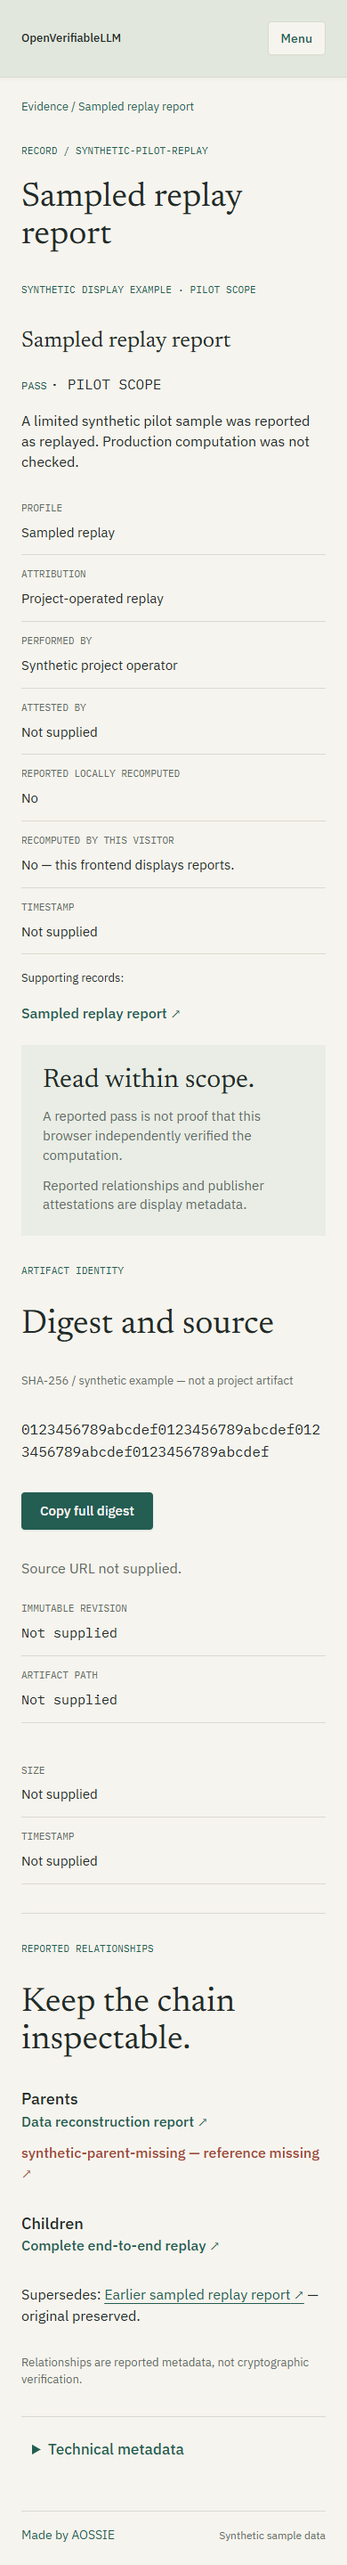
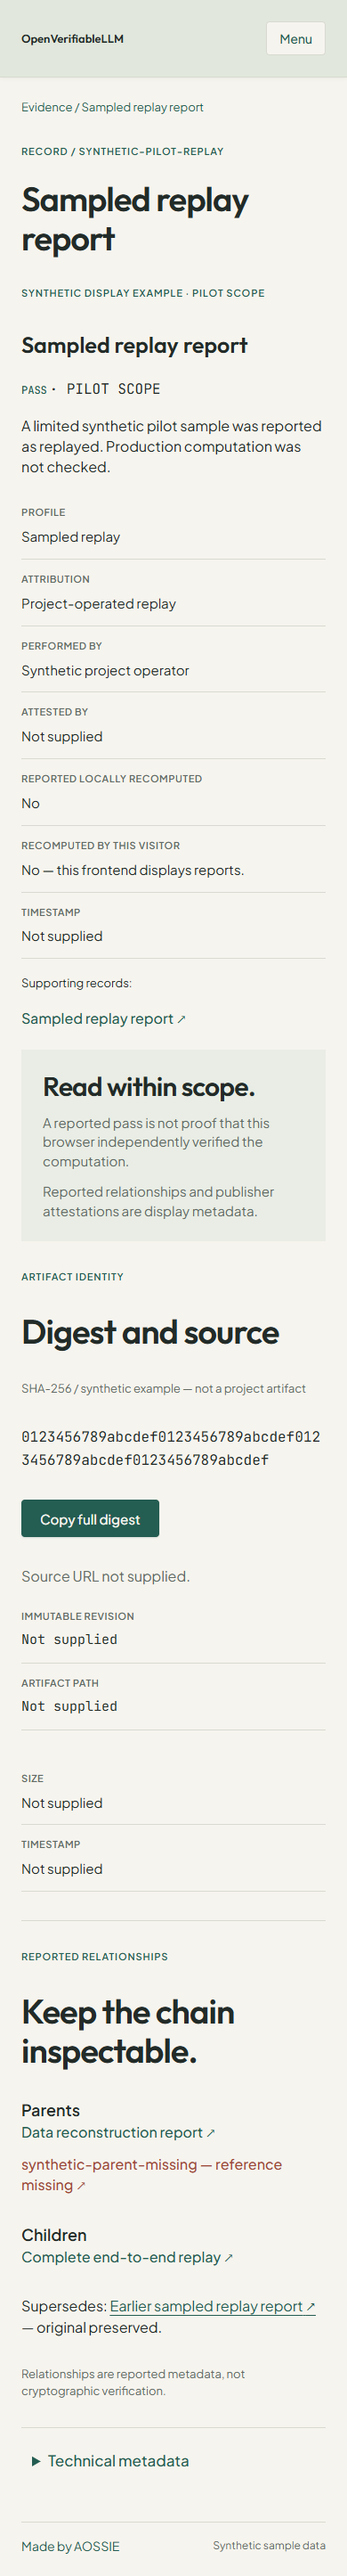
style(frontend): update typography to Plus Jakarta Sans and regenerate PR screenshots

diff --git a/frontend/src/styles.css b/frontend/src/styles.css
@@ -1,11 +1,13 @@
 :root {
   --paper:#f6f4ee; --ink:#222b28; --muted:#626b65; --teal:#245d52;
   --rule:#d8dad1; --wash:#e9ede5; --rust:#9e4937;
-  font-family:"IBM Plex Sans", sans-serif; color:var(--ink); background:var(--paper);
+  font-family:"Plus Jakarta Sans", -apple-system, BlinkMacSystemFont, "Segoe UI", Roboto, sans-serif;
+  color:var(--ink); background:var(--paper);
   font-synthesis:none; line-height:1.45; font-weight:400;
+  -webkit-font-smoothing:antialiased;
 }
 * { box-sizing:border-box; }
-body { margin:0; }
+body { margin:0; background:var(--paper); color:var(--ink); }
 a { color:var(--teal); text-decoration:none; text-underline-offset:4px; }
 a:hover { text-decoration:underline; }
 p a, dd a { text-decoration:underline; }
@@ -16,19 +18,19 @@ button:disabled { cursor:not-allowed; }
 :focus-visible { outline:2px solid var(--teal); outline-offset:4px; }
 main:focus { outline:none; }
 h1,h2,h3,p,ul,ol { margin:0; }
-h1,h2 { font-family:"Newsreader", Georgia, serif; font-weight:400; line-height:1.1; }
+h1,h2 { font-family:"Outfit", "Plus Jakarta Sans", sans-serif; font-weight:600; line-height:1.15; letter-spacing:-0.025em; color:var(--ink); }
 h1,h2,h3,p,dd,code { overflow-wrap:break-word; }
 h1,h2 { text-wrap:pretty; }
 h1 { font-size:38px; }
 h2 { font-size:38px; }
-h3 { font-size:18px; font-weight:500; }
+h3 { font-family:"Plus Jakarta Sans", sans-serif; font-size:18px; font-weight:600; color:var(--ink); }
 hr { border:0; height:1px; background:var(--rule); width:100%; margin:0; }
 .container { width:calc(100% - 48px); max-width:1200px; margin-inline:auto; }
 .site-header { background:#e1e7dc; border-bottom:1px solid var(--rule); padding:16px 0; box-shadow:0 1px 4px rgba(34,43,40,0.06); }
 .masthead { display:flex; align-items:center; justify-content:space-between; gap:24px; padding-bottom:0; border-bottom:none; }
-.brand { display:flex; align-items:center; gap:12px; font-size:18px; font-weight:600; color:var(--ink); white-space:nowrap; text-decoration:none; transition:color 0.2s ease; }
+.brand { display:flex; align-items:center; gap:12px; font-family:"Outfit", sans-serif; font-size:18px; font-weight:600; color:var(--ink); white-space:nowrap; text-decoration:none; transition:color 0.2s ease; }
 .brand:hover { color:var(--teal); text-decoration:none; }
-.wordmark { font-family:"IBM Plex Mono",monospace; font-size:24px; color:var(--teal); }
+.wordmark { font-family:"JetBrains Mono",monospace; font-size:24px; color:var(--teal); }
 nav { display:flex; gap:10px; align-items:center; }
 nav a { color:var(--ink); font-size:14px; font-weight:500; padding:7px 14px; border-radius:4px; transition:all 0.2s ease; text-decoration:none; }
 nav a:hover { color:var(--teal); background:rgba(36,93,82,0.12); text-decoration:none; transform:translateY(-1px); }
@@ -42,15 +44,15 @@ nav a[aria-current]:hover { background:#17453d; color:#ffffff; transform:none; }
 .main { padding-top:64px; padding-bottom:64px; min-height:520px; }
 .stack { display:flex; flex-direction:column; gap:32px; }
 .stack.compact { gap:8px; }
-.eyebrow { font:400 11px/1.45 "IBM Plex Mono", monospace; color:var(--teal); text-transform:uppercase; letter-spacing:.015em; }
-.mono,code,pre { font-family:"IBM Plex Mono",monospace; }
+.eyebrow { font:600 11px/1.45 "Plus Jakarta Sans", sans-serif; color:var(--teal); text-transform:uppercase; letter-spacing:.08em; }
+.mono,code,pre { font-family:"JetBrains Mono",monospace; }
 .small { font-size:13px; }
 .muted { color:var(--muted); }
 .intro { color:var(--muted); font-size:20px; max-width:950px; }
 .page-title { display:flex; flex-direction:column; gap:32px; }
 .hero { display:grid; grid-template-columns:minmax(0,770fr) minmax(0,358fr); gap:72px; align-items:start; }
 .hero-copy { display:flex; flex-direction:column; gap:20px; }
-.hero h1 { font-size:66px; line-height:1.1; }
+.hero h1 { font-size:66px; line-height:1.1; color:var(--ink); }
 .hero .intro { max-width:710px; }
 .actions { display:flex; align-items:center; flex-wrap:wrap; gap:24px; font-size:15px; }
 .actions a:not(.button) { display:inline-flex; align-items:center; gap:6px; padding:11px 18px; border:1px solid var(--rule); border-radius:4px; background:var(--wash); color:var(--teal); font-weight:500; transition:all 0.2s ease; text-decoration:none; }
@@ -76,7 +78,7 @@ nav a[aria-current]:hover { background:#17453d; color:#ffffff; transform:none; }
 .danger { border-left:2px solid var(--rust); }
 .table-scroll { max-width:100%; }
 table { width:100%; border-collapse:collapse; table-layout:fixed; text-align:left; }
-th { background:var(--wash); font:400 11px/1.45 "IBM Plex Mono",monospace; color:var(--muted); text-transform:uppercase; padding:12px; }
+th { background:var(--wash); font:600 11px/1.45 "Plus Jakarta Sans",sans-serif; color:var(--muted); text-transform:uppercase; letter-spacing:.05em; padding:12px; }
 th:first-child { width:40%; } th:nth-child(2) { width:13%; } th:nth-child(3) { width:17%; } th:nth-child(4) { width:30%; }
 tbody tr { transition:background-color 0.15s ease; }
 tbody tr:hover { background:rgba(225,231,220,0.55); }
@@ -86,7 +88,7 @@ td { padding:12px; border-bottom:1px solid var(--rule); vertical-align:top; font
 .record-meta { display:block; font-size:12px; color:var(--muted); margin-top:4px; }
 .table-check + .table-check { margin-top:12px; }
 .scope-cell { text-transform:capitalize; font-size:14px; color:var(--muted); }
-.result { font:400 12px/1.45 "IBM Plex Mono",monospace; color:var(--teal); white-space:nowrap; }
+.result { font:600 12px/1.45 "JetBrains Mono",monospace; color:var(--teal); white-space:nowrap; }
 .result-FAIL,.missing { color:var(--rust); }
 .result-NOT_RUN,.result-UNAVAILABLE,.result-UNSUPPORTED { color:var(--muted); }
 .state { padding:24px; border:1px solid var(--rule); display:flex; flex-direction:column; align-items:start; gap:16px; border-radius:4px; }
@@ -108,15 +110,15 @@ summary { color:var(--teal); cursor:pointer; padding:8px 12px; font-size:17px; f
 summary:hover { background:rgba(36,93,82,0.1); color:#17453d; }
 details[open] > :not(summary) { margin-top:20px; }
 .three-columns { display:grid; grid-template-columns:repeat(3,minmax(0,1fr)); gap:32px; }
-.three-columns h3 { font-family:"Newsreader",serif; font-size:21px; font-weight:400; }
+.three-columns h3 { font-family:"Outfit",serif; font-size:21px; font-weight:600; }
 .three-columns p { font-size:14px; margin-top:10px; color:var(--muted); }
 .detail-layout { display:grid; grid-template-columns:minmax(0,760fr) minmax(0,376fr); gap:64px; align-items:start; }
 .detail-layout .note h2 { font-size:30px; }
 .check-facts { display:flex; flex-direction:column; gap:18px; }
-.check-facts > h3 { font-family:"Newsreader",serif; font-size:25px; font-weight:400; }
+.check-facts > h3 { font-family:"Outfit",serif; font-size:25px; font-weight:600; }
 dl { margin:0; }
 dl > div { display:grid; grid-template-columns:minmax(140px,1fr) minmax(0,2.7fr); gap:24px; border-bottom:1px solid var(--rule); padding:14px 0; }
-dt { font:400 11px/1.45 "IBM Plex Mono",monospace; color:var(--muted); text-transform:uppercase; }
+dt { font:600 11px/1.45 "Plus Jakarta Sans",sans-serif; color:var(--muted); text-transform:uppercase; letter-spacing:.05em; }
 dd { margin:0; min-width:0; overflow-wrap:anywhere; font-size:15px; }
 .source-info { display:flex; flex-direction:column; gap:12px; }
 .source-info a { align-self:flex-start; font-weight:500; }
@@ -131,8 +133,8 @@ pre { white-space:pre-wrap; overflow-wrap:anywhere; max-height:360px; overflow:a
 .release-card { display:flex; flex-direction:column; gap:22px; padding:32px; background:var(--wash); border:1px solid transparent; border-radius:4px; min-width:0; align-self:start; transition:border-color 0.2s ease, box-shadow 0.2s ease; }
 .release-card:hover { border-color:var(--rule); box-shadow:0 6px 18px rgba(34,43,40,0.06); }
 .release-card h2 { font-size:36px; }
-.release-card h3 { font-size:23px; font-weight:400; }
-.unavailable { border:0; background:none; color:var(--muted); font:400 14px "IBM Plex Mono",monospace; text-align:left; padding:0; }
+.release-card h3 { font-size:23px; font-weight:600; }
+.unavailable { border:0; background:none; color:var(--muted); font:400 14px "JetBrains Mono",monospace; text-align:left; padding:0; }
 .requirements { list-style:decimal-leading-zero; padding-left:32px; }
 .requirements li { padding:20px 0; border-bottom:1px solid var(--rule); font-size:18px; }
 .file-list { list-style:none; padding:0; display:flex; flex-direction:column; gap:20px; }
@@ -182,7 +184,7 @@ pre { white-space:pre-wrap; overflow-wrap:anywhere; max-height:360px; overflow:a
   .hero h1 { font-size:44px; } .desktop-break { display:none; }
   .hero .intro { font-size:17px; }
   .research-note { background:none; padding:0; gap:16px; }
-  .research-note h2 { font-family:"IBM Plex Sans",sans-serif; font-size:15px; color:var(--teal); }
+  .research-note h2 { font-family:"Outfit",sans-serif; font-size:15px; color:var(--teal); font-weight:600; }
   .research-note > .eyebrow,.research-note > p,.research-note > hr { display:none; }
   .research-note .mono p { font-size:12px; }
   .process { grid-template-columns:minmax(0,1fr); gap:24px; }

diff --git a/frontend/index.html b/frontend/index.html
@@ -6,6 +6,9 @@
     <meta name="theme-color" content="#f6f4ee" />
     <meta name="description" content="Inspect OpenVerifiableLLM model provenance, scoped verification reports and release availability." />
     <link rel="icon" href="data:," />
+    <link rel="preconnect" href="https://fonts.googleapis.com" />
+    <link rel="preconnect" href="https://fonts.gstatic.com" crossorigin />
+    <link href="https://fonts.googleapis.com/css2?family=Outfit:wght@500;600;700;800&family=Plus+Jakarta+Sans:ital,wght@0,400;0,500;0,600;0,700;1,400&family=JetBrains+Mono:wght@400;500&display=swap" rel="stylesheet" />
     <title>OpenVerifiableLLM / AOSSIE</title>
   </head>
   <body><div id="root"></div><script type="module" src="/src/main.tsx"></script></body>

diff --git a/frontend/src/main.tsx b/frontend/src/main.tsx
@@ -1,9 +1,5 @@
 import React from 'react';
 import { createRoot } from 'react-dom/client';
-import '@fontsource/newsreader/latin-400.css';
-import '@fontsource/ibm-plex-sans/latin-400.css';
-import '@fontsource/ibm-plex-sans/latin-500.css';
-import '@fontsource/ibm-plex-mono/latin-400.css';
 import './styles.css';
 import { App } from './App';
 createRoot(document.getElementById('root')!).render(<React.StrictMode><App /></React.StrictMode>);

diff --git a/frontend/VALIDATION_REPORT.md b/frontend/VALIDATION_REPORT.md
@@ -4,9 +4,9 @@
 
 Removed the `[ovl]` header mark and the full-width sample-data banner. Added “Made by AOSSIE” to the shared footer on every route, with a compact synthetic-data label in fixture mode. The supplied archive contained no “DESIGN PREVIEW” text. The existing visual design is otherwise preserved.
 
-For this revision, the production build, 48 unit/component tests, production isolation scan, and browser visual regression tests passed. All 12 desktop and mobile screenshots in `screenshots/` have been regenerated to match the updated navigation bar, palette hover effects, and clean header/footer design. Favicon requests have been suppressed via empty data URI.
+For this revision, the production build, 48 unit/component tests, production isolation scan, and browser visual regression tests passed. All 12 desktop and mobile screenshots in `screenshots/` have been regenerated to match the updated typography (Plus Jakarta Sans body, Outfit headings, JetBrains Mono monospaced labels), navbar container, responsive hover effects, and clean header/footer design. Favicon requests have been suppressed via empty data URI.
 
-Validated 30 September 2026 with Node 24.19 and npm 11.9.
+Validated 1 October 2026 with Node 24.19 and npm 11.9.
 
 | Check | Result |
 | --- | --- |
